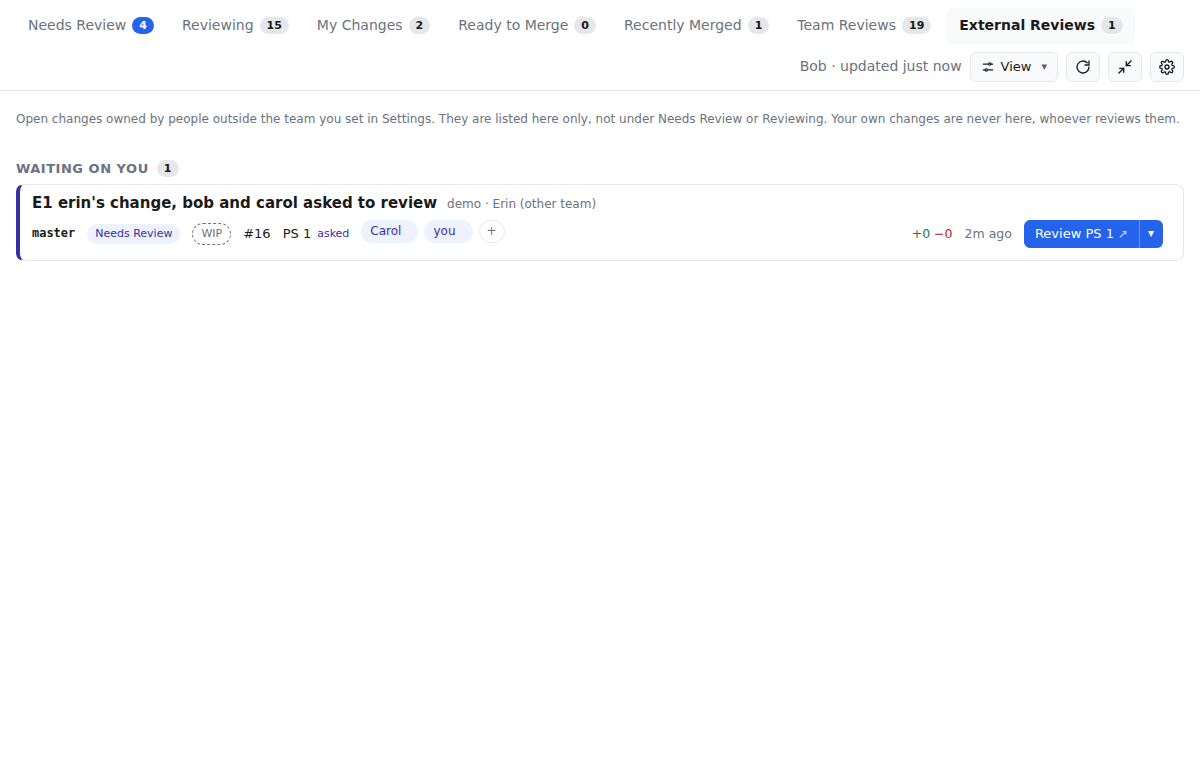
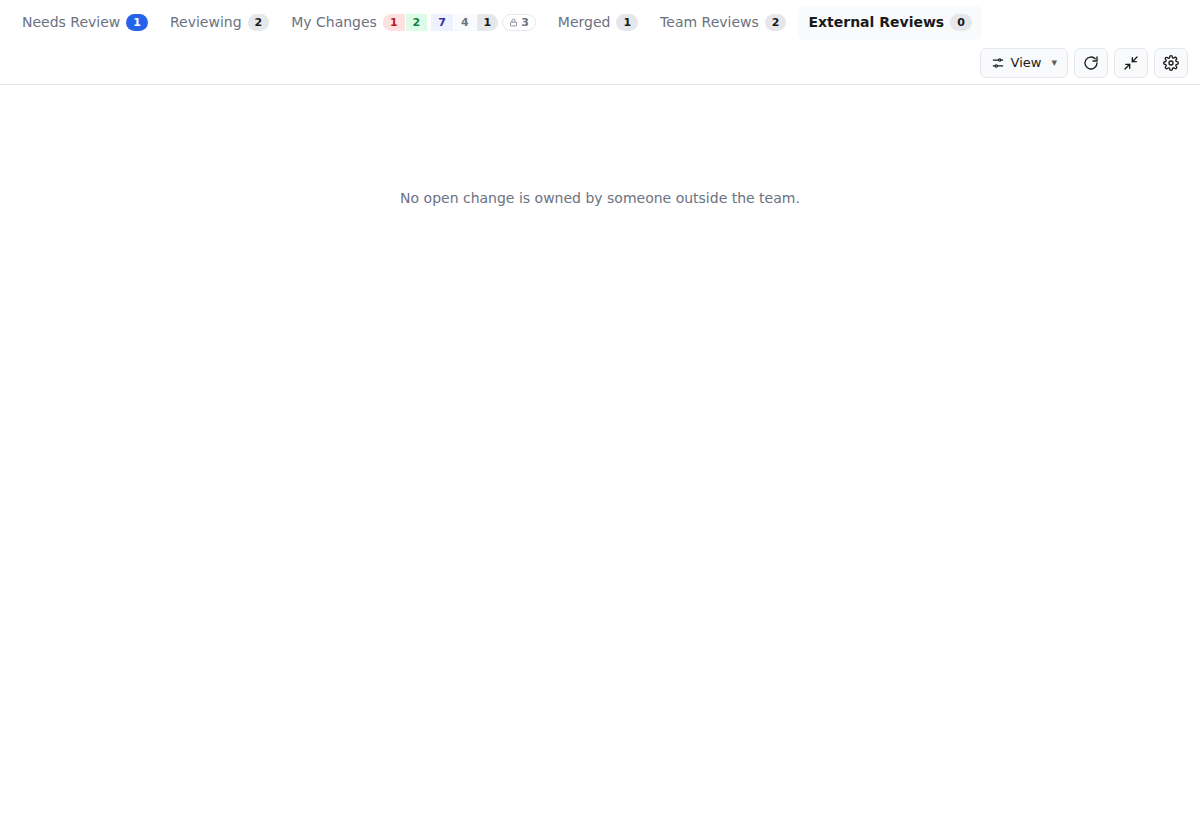
Gerrit Review Board: count a family card in one pill segment only
A family with branches in two sections was counted in both segments of
the My Changes pill, so an approved branch of a card sitting under Out
for review made the green number one more than the Approved header. The
board's rule for where a card sits, the section of its most urgent
branch, moves to the model as familyLeads, and cardGroups lays the
sections out the same way for the pill, which now agrees with the
headers. The README screenshots are made again against a fresh seed.

Changed region(s): [[0.0308, 0.0, 0.9867, 0.1552], [0.0, 0.1863, 0.6783, 0.3415], [0.7708, 0.2794, 0.9867, 0.3415]]

diff --git a/src/shared/model.ts b/src/shared/model.ts
@@ -596,14 +596,16 @@ export interface TabSegment {
  * The colored segments of the count pills: on Merged, what waits to be
  * merged; on My Changes, one per section: what needs work, what is approved,
  * then what is out for review and what is still in progress, and the private
- * ones apart. Cards, like the totals, so a family counts once. A segment at
- * zero is left out, as is in progress when it is the only state: then it is
- * the whole tab and the plain total says as much.
+ * ones apart. Cards, like the totals, so a family counts once: in the section
+ * its card is under, the same as the section headers, however many other
+ * sections its branches touch. A segment at zero is left out, as is in
+ * progress when it is the only state: then it is the whole tab and the plain
+ * total says as much.
  */
 export function tabSegments(views: ChangeView[]): Partial<Record<TabId, TabSegment[]>> {
   const bySection = (tab: TabId, title: string) =>
-    countFamilies(groupsFor(tab, views).filter((g) => g.title === title).flatMap((g) => g.items))
-  const merged = groupsFor('merged', views)
+    countFamilies(cardGroups(tab, views).filter((g) => g.title === title).flatMap((g) => g.items))
+  const merged = cardGroups('merged', views)
   const segments: Partial<Record<TabId, TabSegment[]>> = {
     merged: [{ n: countFamilies(merged.filter((g) => g.title !== 'Merged in the last 14 days').flatMap((g) => g.items)), tone: 'pos', label: 'ready to merge' }],
     mine: [
@@ -622,6 +624,41 @@ export function tabSegments(views: ChangeView[]): Partial<Record<TabId, TabSegme
 /** How many cards a list of changes makes: each Change-Id once. */
 export function countFamilies(views: ChangeView[]): number {
   return new Set(views.map((v) => familyKey(v.change))).size
+}
+
+/**
+ * The branch that leads each family card on a tab, by family key: the most
+ * urgent branch among the sections (see URGENCY), a tie going to the
+ * earliest section. A family of one member is not listed; it is its own
+ * card. `views` is the whole data set, merged members included, so a family
+ * is sized by everything on the board, not by what this tab lists.
+ */
+export function familyLeads(groups: Group[], views: ChangeView[]): Map<string, ChangeView> {
+  const size = new Map<string, number>()
+  for (const v of views) size.set(familyKey(v.change), (size.get(familyKey(v.change)) ?? 0) + 1)
+  const lead = new Map<string, ChangeView>()
+  for (const g of groups) {
+    for (const v of g.items) {
+      const key = familyKey(v.change)
+      if ((size.get(key) ?? 1) === 1) continue
+      const cur = lead.get(key)
+      if (!cur || urgency(v.state) < urgency(cur.state)) lead.set(key, v)
+    }
+  }
+  return lead
+}
+
+/**
+ * The sections of a tab as the board lays them out: a family is one card,
+ * in the section of its lead branch only, so a card is under one header.
+ * A section left with nothing under it is dropped.
+ */
+export function cardGroups(tab: TabId, views: ChangeView[]): Group[] {
+  const groups = groupsFor(tab, views)
+  const lead = familyLeads(groups, views)
+  return groups
+    .map((g) => ({ ...g, items: g.items.filter((v) => (lead.get(familyKey(v.change)) ?? v) === v) }))
+    .filter((g) => g.items.length > 0)
 }
 
 export interface ActionCategoryInfo {

diff --git a/src/shared/model.test.ts b/src/shared/model.test.ts
@@ -1,6 +1,6 @@
 import { test } from 'node:test'
 import assert from 'node:assert/strict'
-import { accountKeys, accountMatches, requestedPatchSets, requestedPatchSetsValue, preferredKey, actionCounts, actionMenu, addMerger, classify, classifyAll, dashboardQueries, describeActions, filterViews, glyphTitle, groupByChangeId, groupsFor, isExternalReview, linkedSlackUrl, slackTag, slackTags, slackUrl, isInternal, isTaggedReviewer, isTeamReview, isVisibleOnBoard, lastReviewedPatchSet, mergeWaitsOnMe, mergerTag, mergerTags, mergersFor, mergersReflect, normalizeMergers, normalizeTeam, ownersOf, primaryReviewerKeys, projectMatches, requestedMerger, reviewLink, reviewerTag, reviewerTags, reviewerTagsFor, shortChangeId, sortByBranch, sortViews, stateTally, tabCounts, tabSegments, urgency, type ViewFilter } from './model.ts'
+import { accountKeys, accountMatches, requestedPatchSets, requestedPatchSetsValue, preferredKey, actionCounts, actionMenu, addMerger, cardGroups, classify, classifyAll, dashboardQueries, describeActions, filterViews, glyphTitle, groupByChangeId, groupsFor, isExternalReview, linkedSlackUrl, slackTag, slackTags, slackUrl, isInternal, isTaggedReviewer, isTeamReview, isVisibleOnBoard, lastReviewedPatchSet, mergeWaitsOnMe, mergerTag, mergerTags, mergersFor, mergersReflect, normalizeMergers, normalizeTeam, ownersOf, primaryReviewerKeys, projectMatches, requestedMerger, reviewLink, reviewerTag, reviewerTags, reviewerTagsFor, shortChangeId, sortByBranch, sortViews, stateTally, tabCounts, tabSegments, urgency, type ViewFilter } from './model.ts'
 import { READY_TO_MERGE_KEY, REVIEW_REQUESTED_KEY } from './constants.ts'
 import type { AccountInfo, ChangeInfo, ChangeMessageInfo } from './types.ts'
 
@@ -738,6 +738,12 @@ test('tabCounts: a Change-Id family counts once per tab; stateTally lists its st
     change({ number: 4, reviewers: [bob], requested: 3 }),
   ].map((c) => classify(c, alice._account_id))
   assert.equal(tabCounts(views).mine, 2)
+  // The card sits in the section of its most urgent branch, and the pill counts it there only: no approved segment.
+  assert.deepEqual(
+    cardGroups('mine', views).map((g) => [g.title, g.items.map((v) => v.change._number)]),
+    [['Out for review', [1, 4]]],
+  )
+  assert.deepEqual(tabSegments(views).mine, [{ n: 2, tone: 'pending', label: 'out for review' }])
   // The tray counts cards as well: one approved card, however many approved branches.
   const twoApproved = [
     change({ number: 5, changeId: 'Ibbb', branch: 'master', reviewers: [bob], requested: 3, votes: { 2: 1 } }),
@@ -746,6 +752,8 @@ test('tabCounts: a Change-Id family counts once per tab; stateTally lists its st
     change({ number: 7, changeId: 'Ibbb', branch: 'release-2.0', reviewers: [bob], requested: 3, votes: { 2: -1 } }),
   ].map((c) => classify(c, alice._account_id))
   assert.deepEqual(actionCounts(twoApproved), { review: 0, fix: 1, ready: 1, merge: 0 })
+  // The pill, like the board, has the card under Needs Changes alone.
+  assert.deepEqual(tabSegments(twoApproved).mine, [{ n: 1, tone: 'neg', label: 'need changes' }])
   assert.deepEqual(stateTally(views.slice(0, 3)), [
     { state: 'needs-review', count: 2 },
     { state: 'approved', count: 1 },

diff --git a/src/renderer/src/components/Board.tsx b/src/renderer/src/components/Board.tsx
@@ -8,6 +8,7 @@ import {
   countFamilies,
   displayName,
   familyKey,
+  familyLeads,
   filterViews,
   groupByChangeId,
   groupsFor,
@@ -16,7 +17,6 @@ import {
   isInternal,
   sortByBranch,
   sortViews,
-  urgency,
   type ChangeFamily,
   type Group,
   type SortId,
@@ -140,15 +140,7 @@ export function Board(props: {
   // changes are branches of a card led elsewhere is dropped: the header
   // counts the cards under it, and nothing would be under it.
   const sorted = groups.map((g) => sortViews(g.items, props.sort))
-  const lead = new Map<string, { section: number; view: ChangeView }>()
-  sorted.forEach((items, section) => {
-    for (const view of items) {
-      const key = familyKey(view.change)
-      if ((families.get(key)?.members.length ?? 1) === 1) continue
-      const cur = lead.get(key)
-      if (!cur || urgency(view.state) < urgency(cur.view.state)) lead.set(key, { section, view })
-    }
-  })
+  const lead = familyLeads(groups, props.views)
   const sections: Section[] = groups
     .map((g, section) => ({
       ...g,
@@ -156,7 +148,7 @@ export function Board(props: {
         const key = familyKey(v.change)
         const f = families.get(key)
         if (!f || f.members.length === 1) return [{ view: v, family: null }]
-        return lead.get(key)?.view === v ? [{ view: v, family: f }] : []
+        return lead.get(key) === v ? [{ view: v, family: f }] : []
       }),
     }))
     .filter((g) => g.rows.length > 0)

diff --git a/src/renderer/src/App.tsx b/src/renderer/src/App.tsx
@@ -377,8 +377,7 @@ function TabCount(props: {
       </>
     )
   }
-  // What no segment (nor the lock) covers. A family with branches in two
-  // sections is in both, so the sum can pass the total; clamp at zero.
+  // What no segment (nor the lock) covers: on My Changes, the cards waiting on the merger.
   const rest = Math.max(0, props.total - props.segments.reduce((sum, s) => sum + s.n, 0))
   const title = [...segs.map((s) => `${s.n} ${s.label}`), ...(rest > 0 ? [`${rest} other`] : []), `${props.total} total`].join(' · ')
   const mine = segs.filter((s) => s.tone === 'pos' || s.tone === 'neg')
